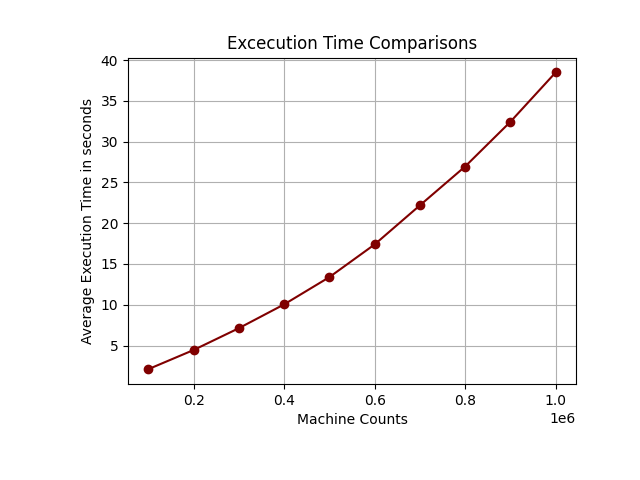
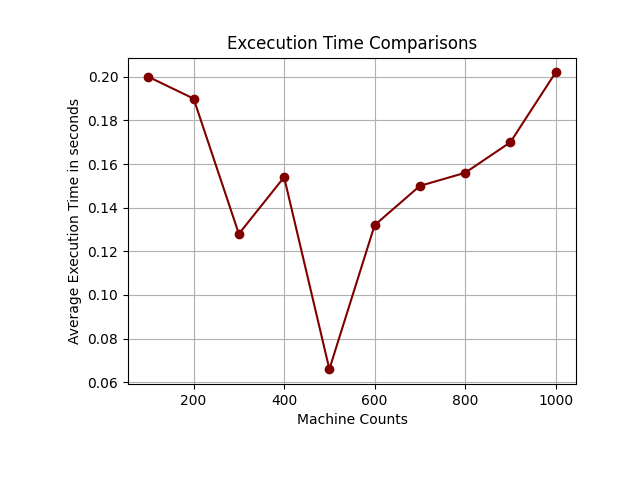
High bandwidth changes
Changed Send Message application to accept U32 to be uniform with Capture. Also modified NDL to accept message_count for send messages apps.

diff --git a/sim/elvis/src/ndl/generating/application_generator.rs b/sim/elvis/src/ndl/generating/application_generator.rs
@@ -39,22 +39,23 @@ pub fn send_message_builder(
     let port = string_to_port(app.options.get("port").unwrap().to_string());
     let message = app.options.get("message").unwrap().to_owned();
 
+    let mut final_message;
+
     // Determines whether or not we are using an IP or a name to send this message
     if ip_or_name(to.clone()) {
         let to = ip_string_to_ip(to, "Send_Message declaration");
 
         // case where ip to mac doesn't have a mac
         if !ip_to_mac.contains_key(&to.into()) {
-            SendMessage::new(Message::new(message), to.into(), port).shared()
+            final_message = SendMessage::new(Message::new(message), to.into(), port)
         }
         // case where ip to mac does have a mac
         else {
-            return SendMessage::new(Message::new(message), to.into(), port)
-                .remote_mac(*ip_to_mac.get(&to.into()).unwrap())
-                .shared();
+            final_message = SendMessage::new(Message::new(message), to.into(), port)
+                .remote_mac(*ip_to_mac.get(&to.into()).unwrap());
         }
     } else {
-        return SendMessage::new(
+        final_message = SendMessage::new(
             Message::new(message),
             *name_to_ip
                 .get(&to)
@@ -65,9 +66,19 @@ pub fn send_message_builder(
             *name_to_mac
                 .get(&to)
                 .unwrap_or_else(|| panic!("Invalid name for 'to' in send_message, found: {to}")),
-        )
-        .shared();
+        );
     }
+
+    if app.options.contains_key("message_count") {
+        final_message = final_message.count(app
+            .options
+            .get("message_count")
+            .unwrap()
+            .parse::<u32>()
+            .expect("Invalid u32 found in Capture for message count"));
+    }
+
+    final_message.shared()
 }
 
 /// Builds the [Capture] application for a machine

diff --git a/sim/benchmarking/benchmarking.py b/sim/benchmarking/benchmarking.py
@@ -149,20 +149,27 @@ def execution_time_comparison_graphs():
     plt.close()
 
 # Generates sim files with machine counts from start to end counts. Increments machine counts by increment value.
-def create_and_run_sims(start_count, end_count, increment):
+def create_and_run_sims(base_file, start_count, end_count, increment):
     with open(data_directory + "core_data.json", "w") as outfile:
         pass
-    f = open(sim_directory + "base-basic.ndl", 'r')
+    f = open(sim_directory + base_file, 'r')
     sim = f.read()
+    message_count = 1000
     for cur_count in range(start_count, end_count + increment, increment):
-        cur_file_name = sim_directory + "basic-" + str(cur_count) + ".ndl"
+        cur_file_name = sim_directory + base_file[0:-4] + str(cur_count) + ".ndl"
+        sim = sim.replace('#message_count', str(message_count))
+        sim = sim.replace('#machine_count', str(cur_count))
+        if '#message_count' in sim:
+            sim = sim.replace('#recieve_count', str(message_count*cur_count))
+        else:
+            sim = sim.replace('#recieve_count', str(cur_count))
         with open(cur_file_name, "w") as outfile:
-            outfile.write(sim.replace('#', str(cur_count)))
+            outfile.write(sim)
         run_sim(cur_file_name, iteration_count)
         remove_file(cur_file_name)
 
 
 if __name__ == '__main__':
-    create_and_run_sims(int(sys.argv[1]), int(sys.argv[2]), int(sys.argv[3]))
+    create_and_run_sims(sys.argv[1], int(sys.argv[2]), int(sys.argv[3]), int(sys.argv[4]))
     mem_comparison_graphs()
     execution_time_comparison_graphs()

diff --git a/sim/elvis/src/applications/send_message.rs b/sim/elvis/src/applications/send_message.rs
@@ -26,7 +26,7 @@ pub struct SendMessage {
     /// The machine that will receive the message
     remote_mac: Option<Mac>,
     /// The number of copies of the message to send
-    count: u16,
+    count: u32,
     /// The protocol to use in delivering the message
     transport: Transport,
 }
@@ -56,7 +56,7 @@ impl SendMessage {
     }
 
     /// The number of copies of the message to send
-    pub fn count(mut self, count: u16) -> Self {
+    pub fn count(mut self, count: u32) -> Self {
         self.count = count;
         self
     }

diff --git a/sim/elvis/tests/generator_valid_tests.rs b/sim/elvis/tests/generator_valid_tests.rs
@@ -48,3 +48,11 @@ async fn basic_pingpong_ip_valid_test() {
         "./tests/generator_tests/valid/basic_pingpong_ip_valid_test.txt".to_string();
     generate_and_run_sim(file_path).await;
 }
+
+#[tokio::test]
+#[ntest::timeout(100)]
+async fn multi_message_valid_test() {
+    let file_path: String =
+        "./tests/generator_tests/valid/multi_message_valid_test.txt".to_string();
+    generate_and_run_sim(file_path).await;
+}

diff --git a/sim/elvis/src/ndl/parsing/parser_util.rs b/sim/elvis/src/ndl/parsing/parser_util.rs
@@ -80,7 +80,7 @@ pub fn general_parser(s: &str, line_num: &mut i32) -> Result<(DecType, Params, S
         }
 
         Err(e) => {
-            return Err(format!("{e}"));
+            Err(format!("{e}"))
         }
     }
 }
